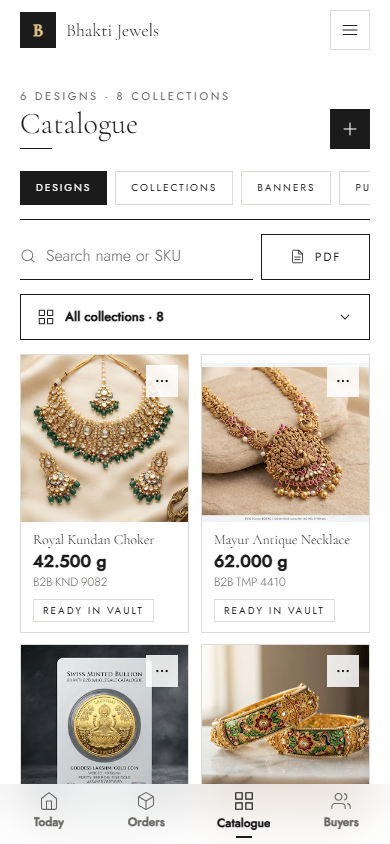
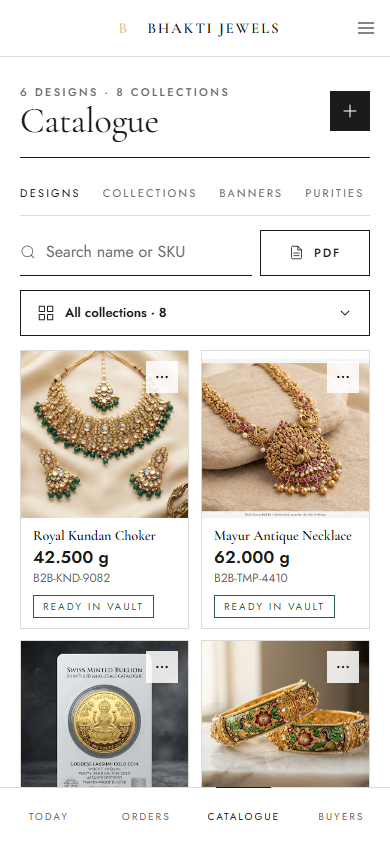
Maison owner QA fixes: form grid height, tabs, live layout switch, PDF bar, buyers row, collections tiles, vitest excludes .claude

diff --git a/src/layouts/maison/owner/content.css b/src/layouts/maison/owner/content.css
@@ -9,9 +9,9 @@
 
   /* ---------- page frame ---------- */
   & .scroll, & .em-page { padding-top: 28px; }
-  & .scroll { max-width: 1100px; gap: var(--mo-gap) !important; }
-  & .scroll > .sub, & .em-page .sub { font-family: var(--mx-serif); font-size: 1.25rem; line-height: 1.4; color: var(--mx-ink); font-weight: 300; max-width: 46ch; }
-  & .scroll h2 { font-family: var(--mx-serif); font-weight: 300; font-size: 1.75rem !important; margin: 0; }
+  & .scroll { gap: var(--mo-gap) !important; }
+  & .scroll > .sub, & .em-page .sub { font-family: var(--mx-sans); font-size: 0.9375rem; line-height: 1.6; color: var(--mx-mut); font-weight: 300; max-width: 60ch; }
+  & .scroll h2:not(.mx-ey) { font-family: var(--mx-serif); font-weight: 300; font-size: 1.75rem !important; margin: 0; }
   & .sub { color: var(--mx-mut); }
 
   /* ---------- labels, inputs: hairline, no box ---------- */
@@ -55,7 +55,6 @@
   /* ---------- chips, tags, notes, cards ---------- */
   & .chip { min-height: 40px; padding: 0 16px; border: 1px solid var(--mx-line); background: transparent; color: var(--mx-ink); font-family: var(--mx-sans); font-size: 0.6875rem; font-weight: 400; letter-spacing: 0.2em; text-transform: uppercase; }
   & .chip.on { background: var(--mx-ink); border-color: var(--mx-ink); color: #fff; }
-  & .em-seg .chip { flex: 1 1 0; }
   & :is(.tag, .pro) { border: 1px solid var(--mx-line); background: transparent; color: var(--mx-ink); font-size: 0.625rem; font-weight: 400; letter-spacing: 0.2em; text-transform: uppercase; padding: 3px 8px; }
   & :is(.tag.over, .tag.gold) { background: #fff; }
   & .tag.bad { color: #8a2b22; border-color: #8a2b22; }
@@ -106,7 +105,10 @@
     display: grid; grid-template-columns: 380px minmax(0, 1fr); column-gap: 80px; align-items: start; max-width: 1060px;
   }
   [data-layout="maison"][data-role="owner"] .scroll.no-tabs:has(.dashtile, .photo) > * { grid-column: 2; min-width: 0; }
-  [data-layout="maison"][data-role="owner"] .scroll.no-tabs:has(.dashtile, .photo) > div:has(.dashtile, .photo) { grid-column: 1; grid-row: 1 / span 40; position: sticky; top: 120px; }
+  [data-layout="maison"][data-role="owner"] .scroll.no-tabs:has(.dashtile, .photo) > div:has(.dashtile, .photo) { grid-column: 1; grid-row: 1 / span 40; align-self: start; position: sticky; top: 120px; }
+  /* empty implicit rows must not add gap height: spacing comes from margins instead */
+  [data-layout="maison"][data-role="owner"] .scroll.no-tabs:has(.dashtile, .photo) { row-gap: 0 !important; }
+  [data-layout="maison"][data-role="owner"] .scroll.no-tabs:has(.dashtile, .photo) > * { margin-bottom: var(--mo-gap); }
   /* a sticky column traps the crop dialog's fixed layer under the header, so it lets go while the dialog is open */
   [data-layout="maison"][data-role="owner"] .scroll.no-tabs:has(.dashtile, .photo) > div:has([role="dialog"]) { position: static; }
   [data-layout="maison"][data-role="owner"] .scroll.no-tabs > .em-savebar { margin-inline: 0; padding-inline: 0; border-top: 0; }
@@ -126,9 +128,7 @@
 /* ---------- second pass: catalogue tabs, rows, plan, PDF, sheets ---------- */
 [data-layout="maison"][data-role="owner"] {
   & :is(b, strong) { font-weight: 500; }
-  & .em-seg .em-chip[data-seg] { border-color: var(--mx-line) !important; background: transparent !important; color: var(--mx-ink) !important; }
-  & .em-seg .em-chip[data-seg][aria-pressed="true"] { background: var(--mx-ink) !important; border-color: var(--mx-ink) !important; color: #fff !important; }
-  & .em-seg-bar { height: 1px; background: var(--mx-ink) !important; margin-top: -2px; }
+  & .em-seg-bar { display: none; }
   & .em-embed .card.pur-on, & .em-embed .card.pur-off { border-left: 0; background: transparent; border-top: 1px solid var(--mx-line); padding: 14px 0; }
   & .card.pur-on b { font-family: var(--mx-serif); font-weight: 300; font-size: 1.5rem; }
   & .em-li b { font-family: var(--mx-serif); font-weight: 400; font-size: 1.1875rem; }
@@ -149,7 +149,9 @@
   & input[type="range"] { accent-color: var(--mx-ink); }
   & .dock .card { background: #fff; border: 0; border-top: 1px solid var(--mx-ink); padding: 14px 20px; }
   & .topbar { background: #fff; border-bottom: 1px solid var(--mx-line); backdrop-filter: none; }
-  & .topbar h1 { font-family: var(--mx-serif); font-weight: 300; font-size: 1.5rem; text-align: center; }
+  & .topbar .top h1 { font-family: var(--mx-serif); font-weight: 300; font-size: 1.5rem !important; text-align: center; color: var(--mx-ink) !important; letter-spacing: 0; }
+  & .topbar .top { max-width: 640px; padding-inline: 0; }
+  & .topbar .top .ib { margin-left: 0; }
   & .em-sheet { border-radius: 0; background: var(--mx-paper); padding: 22px 24px calc(28px + var(--sab)); gap: 18px; }
   & .em-sheet .em-ser { font-family: var(--mx-serif); font-weight: 300; font-size: 1.75rem !important; }
   & .em-sheet .em-card { border: 0; padding: 8px 0; }
@@ -198,3 +200,19 @@
 /* AI render compare sheet: the secondary button stays an outline (the sheet sits outside the scoped form rules). */
 [data-layout="maison"] .rnd-cmp :is(.btn.alt, .rnd-tabs button) { background: transparent !important; color: var(--mx-ink) !important; border: 1px solid var(--mx-ink) !important; }
 [data-layout="maison"] .rnd-cmp .rnd-tabs button.on { background: var(--mx-ink) !important; color: #fff !important; }
+
+/* Buyers row on phones: name first, the three actions in one even row beneath it. */
+@media (max-width: 767px) {
+  [data-layout="maison"][data-role="owner"] .em-buyer { flex-wrap: wrap; row-gap: 10px; }
+  [data-layout="maison"][data-role="owner"] .em-buyer > .em-row:last-child { flex: 1 0 100%; flex-direction: row !important; align-items: center; justify-content: flex-start; gap: 28px !important; padding-left: 66px; flex-wrap: nowrap; }
+  [data-layout="maison"][data-role="owner"] .em-buyer .em-rm { padding: 0; min-height: 44px; width: auto; flex: none; white-space: nowrap; text-align: left !important; }
+  /* collections: one full-width tile per row (a lone tile in a 2-up grid left the right half empty) */
+  [data-layout="maison"][data-role="owner"] .em-grid.em-grid-c2:not([data-testid]) { grid-template-columns: 1fr; }
+  [data-layout="maison"][data-role="owner"] .em-grid.em-grid-c2:not([data-testid]) :is(.em-ph, .em-sq) { aspect-ratio: 16 / 9 !important; height: auto !important; padding: 0 !important; }
+  [data-layout="maison"][data-role="owner"] .em-buyer .em-rm { margin: 0; height: 44px; display: inline-flex; align-items: center; }
+}
+[data-layout="maison"][data-role="owner"] .scroll:not(.no-tabs):not(.wide) { max-width: none; }
+@media (min-width: 1024px) {
+  /* the sticky bar of a screen that brings its own top bar starts after the sidebar, like the shell bar */
+  [data-layout="maison"][data-role="owner"] .topbar { left: var(--em-side, 264px); }
+}

diff --git a/vite.config.ts b/vite.config.ts
@@ -3,7 +3,7 @@ import react from '@vitejs/plugin-react';
 import path from 'path';
 import { fileURLToPath } from 'url';
 import { readFileSync } from 'fs';
-import { defineConfig } from 'vite';
+import { defineConfig } from 'vitest/config';
 
 const __filename = fileURLToPath(import.meta.url);
 const __dirname = path.dirname(__filename);
@@ -17,6 +17,8 @@ export default defineConfig(() => {
         '@': path.resolve(__dirname, '.'),
       },
     },
+    // A bare `vitest run` from the main checkout must not pick up the tests of agent worktrees under .claude/.
+    test: { exclude: ['**/node_modules/**', '**/dist/**', '.claude/**'] },
     build: { rollupOptions: { input: { main: path.resolve(__dirname, 'index.html'), console: path.resolve(__dirname, 'console.html') } } },
     server: {
       // Dev behind a tunnel or preview proxy: VITE_ALLOW_ANY_HOST=true lets Vite answer for any Host header (default: localhost only).

diff --git a/src/App.tsx b/src/App.tsx
@@ -138,6 +138,9 @@ export default function App() {
   // Maison is its own chunk (code and CSS): Classic stores never download it.
   const [maisonKit, setMaisonKit] = useState<LayoutKit | null>(null);
   const [maisonFailed, setMaisonFailed] = useState(false); // the chunk could not load (offline): fall back to Classic
+  // Store settings changes merchant.layout in place; this makes the shell follow at once instead of after a reload.
+  const [, bumpLayout] = useState(0);
+  useEffect(() => { const f = () => bumpLayout((n) => n + 1); window.addEventListener('store-layout-changed', f); return () => window.removeEventListener('store-layout-changed', f); }, []);
   const wantsMaison = layoutFor(merchant.layout, maisonFailed) === 'maison';
   useEffect(() => {
     if (wantsMaison && !maisonKit) void import('./layouts/maison').then((m) => setMaisonKit(m.maison), () => setMaisonFailed(true));

diff --git a/src/components/AdminStoreScreen.tsx b/src/components/AdminStoreScreen.tsx
@@ -35,6 +35,7 @@ export const AdminStoreScreen: React.FC<Props> = ({ summary, onNavigate, onShare
       .setLayout(id)
       .then(() => {
         merchant.layout = id;
+        window.dispatchEvent(new Event('store-layout-changed'));
         setLayout(id);
         notify(`Buyers now see the ${LAYOUTS.find((l) => l.id === id)?.name} layout.`);
       })
